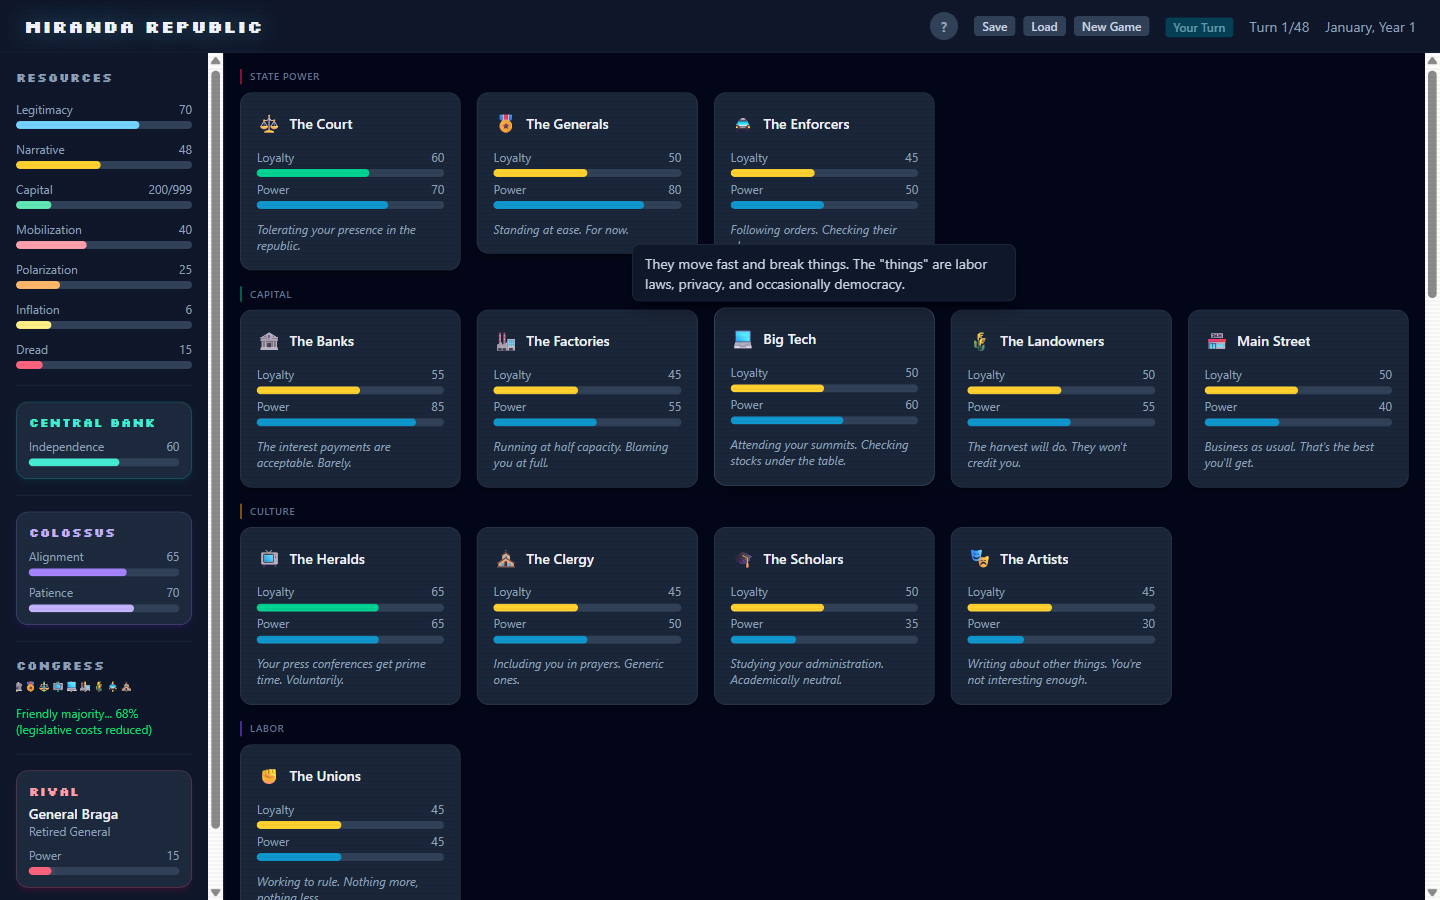
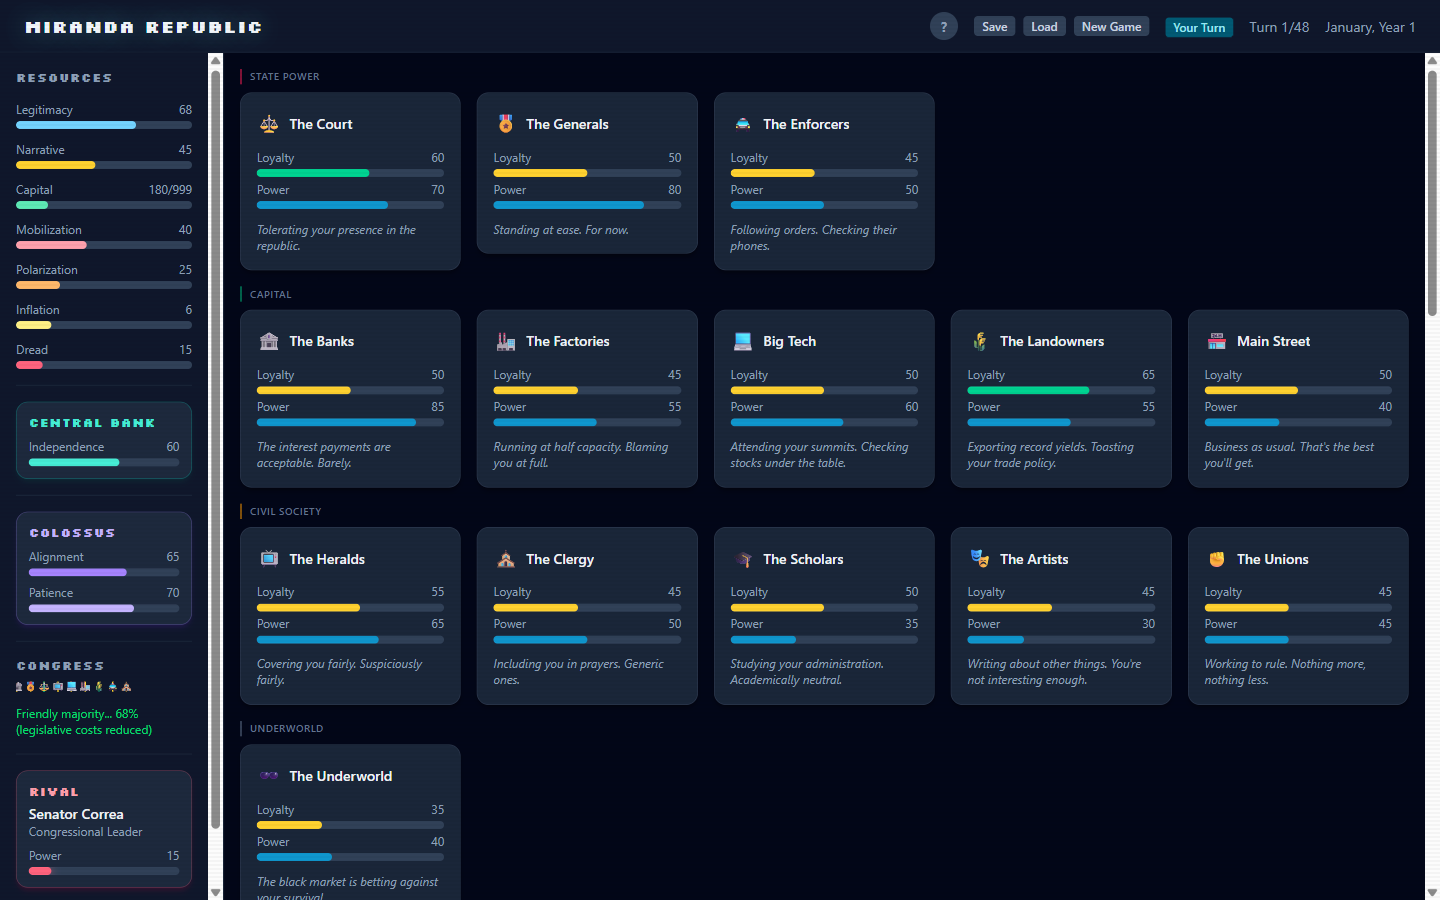
Move Unions into Civil Society group, clean up screenshot
Unions now grouped under "Civil Society" with Heralds, Clergy, Scholars,
and Artists instead of in a separate "Labor" category. Underworld remains
standalone. Retook screenshot without tooltip artifact.

diff --git a/src/components/BlocGrid.tsx b/src/components/BlocGrid.tsx
@@ -10,9 +10,8 @@ interface BlocGroup {
 const BLOC_GROUPS: BlocGroup[] = [
   { label: 'State Power', color: 'border-rose-500/50', blocs: ['court', 'military', 'enforcers'] },
   { label: 'Capital', color: 'border-emerald-500/50', blocs: ['finance', 'industry', 'tech', 'agri', 'mainStreet'] },
-  { label: 'Culture', color: 'border-amber-500/50', blocs: ['media', 'clergy', 'academy', 'artists'] },
-  { label: 'Labor', color: 'border-violet-500/50', blocs: ['labor'] },
-  { label: 'Shadow', color: 'border-slate-500/50', blocs: ['syndicate'] },
+  { label: 'Civil Society', color: 'border-amber-500/50', blocs: ['media', 'clergy', 'academy', 'artists', 'labor'] },
+  { label: 'Underworld', color: 'border-slate-500/50', blocs: ['syndicate'] },
 ];
 
 interface BlocGridProps {

diff --git a/DESIGN_DOCUMENT.md b/DESIGN_DOCUMENT.md
@@ -1132,7 +1132,7 @@ Uses the desktop sidebar layout. The sidebar width stays at `w-56` and the conte
 
 ### Desktop (>=1024px)
 
-Full sidebar + main content layout. Bloc cards render in a responsive grid (up to 5 columns at wide viewports) with group section headers (State Power, Capital, Culture, Labor, Shadow). Cards have subtle hover lift effect (`hover:-translate-y-0.5`).
+Full sidebar + main content layout. Bloc cards render in a responsive grid (up to 5 columns at wide viewports) with group section headers (State Power, Capital, Civil Society, Underworld). Cards have subtle hover lift effect (`hover:-translate-y-0.5`).
 
 ### Skip Turn Reports
 
@@ -1332,7 +1332,7 @@ Small colored arrows next to each resource value show the direction of change fr
 
 ### v1.3 (February 2026)
 - Mobile-responsive redesign with bottom tab navigation (Blocs, Actions, Status, News)
-- Compact BlocCard accordion mode for mobile with group headers (State Power, Capital, Culture, Labor, Shadow)
+- Compact BlocCard accordion mode for mobile with group headers (State Power, Capital, Civil Society, Underworld)
 - Compact PolicyCard list mode for mobile with PolicyDetailSheet bottom sheet
 - Fullwidth ResourceSidebar variant for mobile Status tab
 - Skip turn reports toggle (persists across saves, default off)
